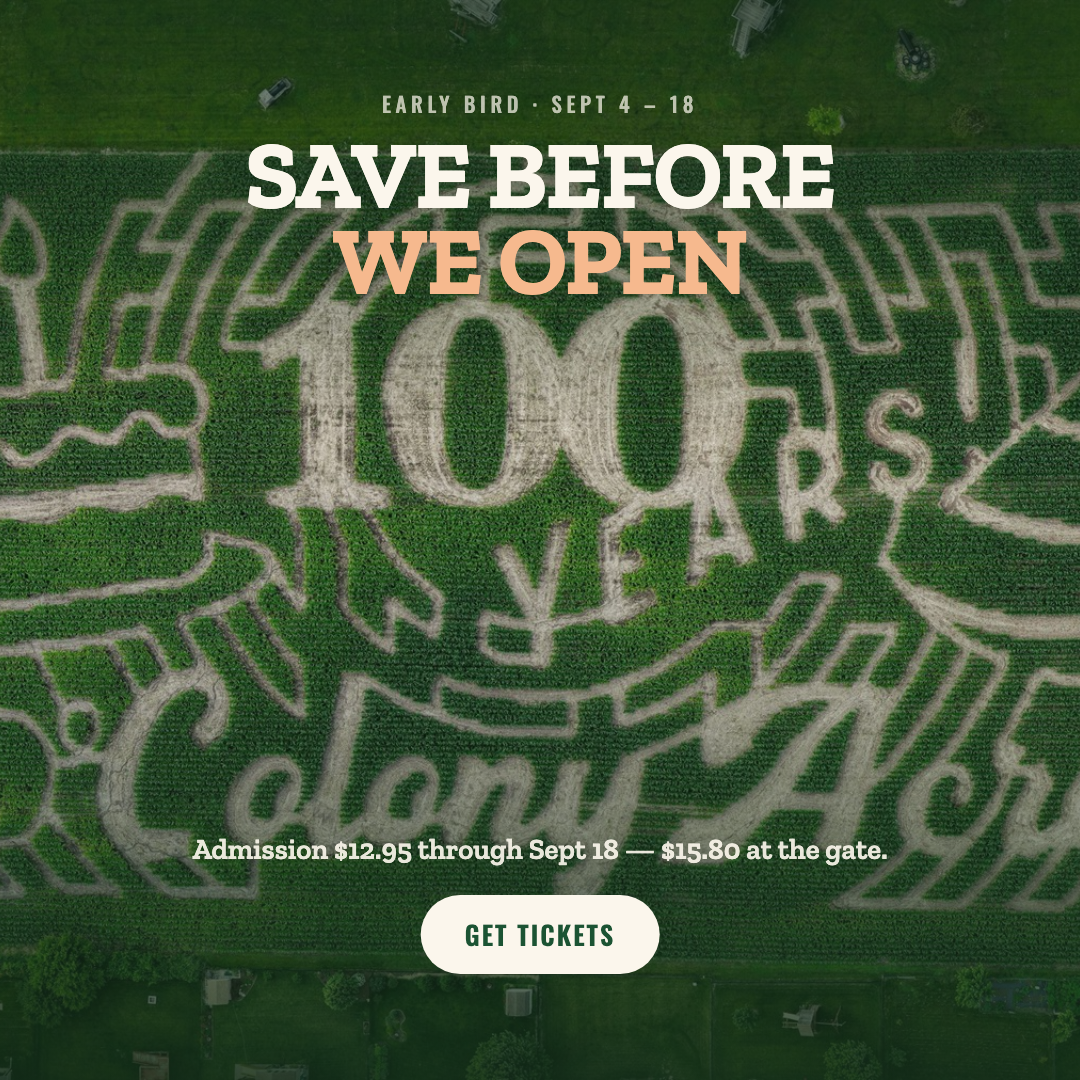
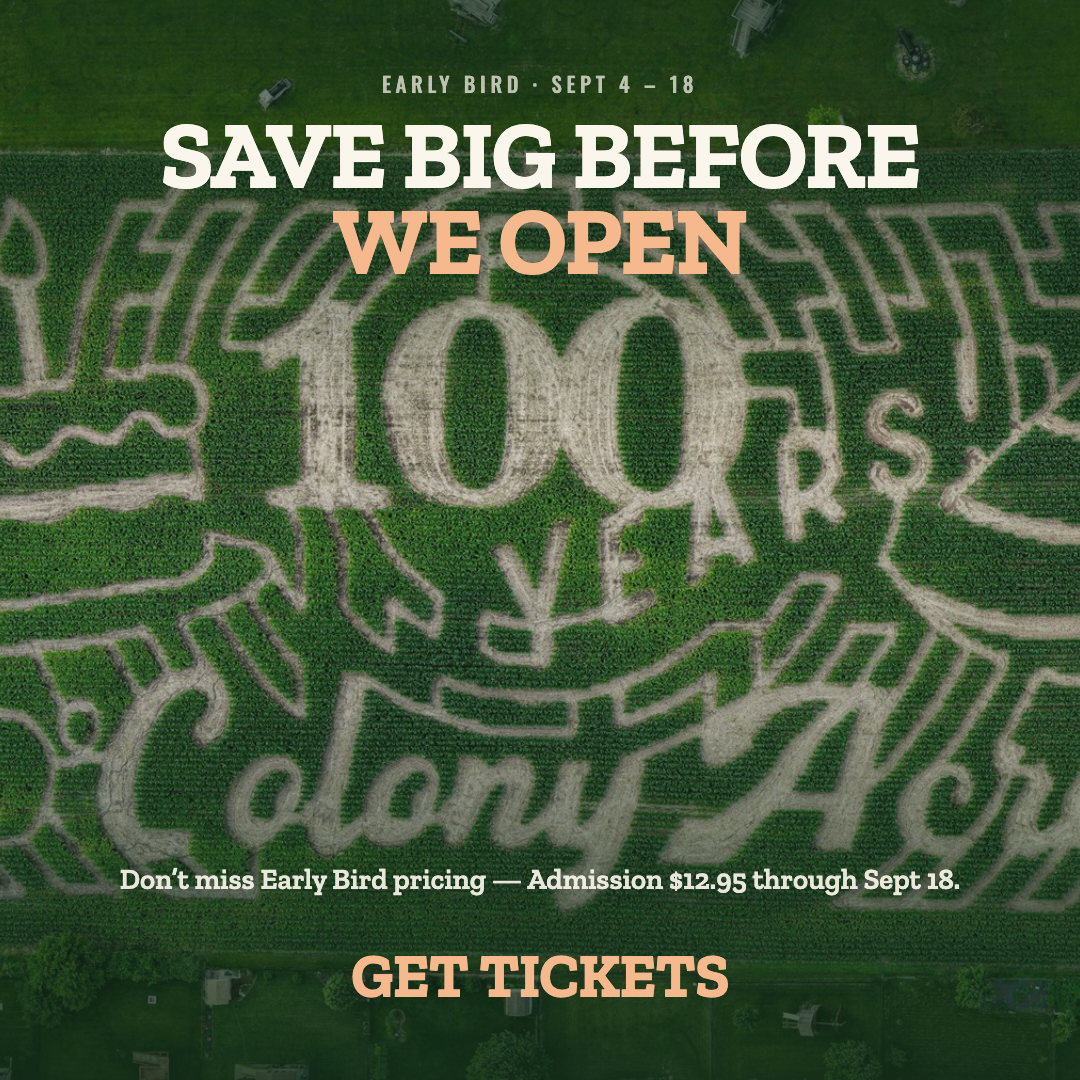
colony-acres: maze offer board - Mat's review edits
Board 01: dropped the gate-price tail, prepended 'Don't miss Early Bird
pricing', headline now 'Save Big Before / We Open'.

Template-level (all five): CTA is set as a smaller sibling of the headline
rather than a pill, and the top/bottom blocks pushed apart so more of the maze
reads. These propagate across the set on purpose - a copy test stops being a
copy test the moment one board's layout drifts from the rest.

Changed region(s): [[0.1528, 0.0611, 0.8556, 0.275], [0.0917, 0.7639, 0.8861, 0.9472]]

diff --git a/clients/colony-acres/design/ad-creatives/early-bird-2026-maze-offer/render/01-save-before-we-open.html b/clients/colony-acres/design/ad-creatives/early-bird-2026-maze-offer/render/01-save-before-we-open.html
@@ -33,24 +33,25 @@ html, body { width: 1080px; height: 1080px; overflow: hidden; }
 }
 .say.light { color: rgba(251,246,236,0.92); }
 
-.pill {
-  position: absolute; background: #1B5333; color: #FBF6EC;
-  padding: 20px 44px; border-radius: 999px;
-  font-family: 'Oswald', sans-serif; font-weight: 600; font-size: 26px;
-  letter-spacing: 0.08em; text-transform: uppercase; white-space: nowrap;
+/* The call to action is set as a smaller sibling of the headline rather than a
+   button — same face, same treatment, peach so it echoes the second title line. */
+.cta {
+  position: absolute; left: 0; right: 0; text-align: center;
+  font-family: 'Zilla Slab', Georgia, serif; font-weight: 700;
+  text-transform: uppercase; letter-spacing: -0.012em; line-height: 0.9;
+  font-size: 62px; color: #F6B98E;
 }
-.pill.cream  { background: #FBF6EC; color: #1B5333; }
 </style></head><body>
 <div class="ad">
   <div class="full"><img src="../../early-bird-2026-concept-b/img/colony-100-years-maze.jpg" style="object-position:50% 46%" alt=""></div>
   <div class="veil" style="background:linear-gradient(180deg,rgba(20,45,26,0.72) 0%,rgba(20,45,26,0.12) 40%,rgba(20,45,26,0.28) 66%,rgba(20,45,26,0.86) 100%)"></div>
-  <div class="eyebrow light" style="position:absolute;left:0;right:0;top:88px;text-align:center">Early Bird · Sept 4 – 18</div>
-  <div class="lock" style="left:0;right:0;top:132px;text-align:center">
-    <span class="a" style="font-size:96px;color:#FBF6EC">Save before</span>
+  <div class="eyebrow light" style="position:absolute;left:0;right:0;top:68px;text-align:center">Early Bird · Sept 4 – 18</div>
+  <div class="lock" style="left:0;right:0;top:112px;text-align:center">
+    <span class="a" style="font-size:96px;color:#FBF6EC">Save big before</span>
     <span class="b" style="font-size:96px;color:#F6B98E">we open</span>
   </div>
-  <div class="say light" style="position:absolute;left:0;right:0;bottom:210px;text-align:center;font-size:29px">
-    Admission $12.95 through Sept 18 — $15.80 at the gate.
+  <div class="say light" style="position:absolute;left:0;right:0;bottom:180px;text-align:center;font-size:29px">
+    Don’t miss Early Bird pricing — Admission $12.95 through Sept 18.
   </div>
-  <div class="pill cream" style="left:50%;transform:translateX(-50%);bottom:106px">Get Tickets</div>
+  <div class="cta" style="bottom:76px">Get Tickets</div>
 </div></body></html>

diff --git a/clients/colony-acres/design/ad-creatives/early-bird-2026-maze-offer/render/02-last-call.html b/clients/colony-acres/design/ad-creatives/early-bird-2026-maze-offer/render/02-last-call.html
@@ -33,24 +33,25 @@ html, body { width: 1080px; height: 1080px; overflow: hidden; }
 }
 .say.light { color: rgba(251,246,236,0.92); }
 
-.pill {
-  position: absolute; background: #1B5333; color: #FBF6EC;
-  padding: 20px 44px; border-radius: 999px;
-  font-family: 'Oswald', sans-serif; font-weight: 600; font-size: 26px;
-  letter-spacing: 0.08em; text-transform: uppercase; white-space: nowrap;
+/* The call to action is set as a smaller sibling of the headline rather than a
+   button — same face, same treatment, peach so it echoes the second title line. */
+.cta {
+  position: absolute; left: 0; right: 0; text-align: center;
+  font-family: 'Zilla Slab', Georgia, serif; font-weight: 700;
+  text-transform: uppercase; letter-spacing: -0.012em; line-height: 0.9;
+  font-size: 62px; color: #F6B98E;
 }
-.pill.cream  { background: #FBF6EC; color: #1B5333; }
 </style></head><body>
 <div class="ad">
   <div class="full"><img src="../../early-bird-2026-concept-b/img/colony-100-years-maze.jpg" style="object-position:50% 46%" alt=""></div>
   <div class="veil" style="background:linear-gradient(180deg,rgba(20,45,26,0.72) 0%,rgba(20,45,26,0.12) 40%,rgba(20,45,26,0.28) 66%,rgba(20,45,26,0.86) 100%)"></div>
-  <div class="eyebrow light" style="position:absolute;left:0;right:0;top:88px;text-align:center">Early Bird ends Sept 18</div>
-  <div class="lock" style="left:0;right:0;top:132px;text-align:center">
+  <div class="eyebrow light" style="position:absolute;left:0;right:0;top:68px;text-align:center">Early Bird ends Sept 18</div>
+  <div class="lock" style="left:0;right:0;top:112px;text-align:center">
     <span class="a" style="font-size:96px;color:#FBF6EC">Last call</span>
     <span class="b" style="font-size:96px;color:#F6B98E">before the gate</span>
   </div>
-  <div class="say light" style="position:absolute;left:0;right:0;bottom:210px;text-align:center;font-size:29px">
+  <div class="say light" style="position:absolute;left:0;right:0;bottom:180px;text-align:center;font-size:29px">
     The final discount before opening day. $12.95, any day you visit.
   </div>
-  <div class="pill cream" style="left:50%;transform:translateX(-50%);bottom:106px">Get Tickets</div>
+  <div class="cta" style="bottom:76px">Get Tickets</div>
 </div></body></html>

diff --git a/clients/colony-acres/design/ad-creatives/early-bird-2026-maze-offer/render/04-one-pass-all-fall.html b/clients/colony-acres/design/ad-creatives/early-bird-2026-maze-offer/render/04-one-pass-all-fall.html
@@ -33,24 +33,25 @@ html, body { width: 1080px; height: 1080px; overflow: hidden; }
 }
 .say.light { color: rgba(251,246,236,0.92); }
 
-.pill {
-  position: absolute; background: #1B5333; color: #FBF6EC;
-  padding: 20px 44px; border-radius: 999px;
-  font-family: 'Oswald', sans-serif; font-weight: 600; font-size: 26px;
-  letter-spacing: 0.08em; text-transform: uppercase; white-space: nowrap;
+/* The call to action is set as a smaller sibling of the headline rather than a
+   button — same face, same treatment, peach so it echoes the second title line. */
+.cta {
+  position: absolute; left: 0; right: 0; text-align: center;
+  font-family: 'Zilla Slab', Georgia, serif; font-weight: 700;
+  text-transform: uppercase; letter-spacing: -0.012em; line-height: 0.9;
+  font-size: 62px; color: #F6B98E;
 }
-.pill.cream  { background: #FBF6EC; color: #1B5333; }
 </style></head><body>
 <div class="ad">
   <div class="full"><img src="../../early-bird-2026-concept-b/img/colony-100-years-maze.jpg" style="object-position:50% 46%" alt=""></div>
   <div class="veil" style="background:linear-gradient(180deg,rgba(20,45,26,0.72) 0%,rgba(20,45,26,0.12) 40%,rgba(20,45,26,0.28) 66%,rgba(20,45,26,0.86) 100%)"></div>
-  <div class="eyebrow light" style="position:absolute;left:0;right:0;top:88px;text-align:center">Early Bird · season pass</div>
-  <div class="lock" style="left:0;right:0;top:132px;text-align:center">
+  <div class="eyebrow light" style="position:absolute;left:0;right:0;top:68px;text-align:center">Early Bird · season pass</div>
+  <div class="lock" style="left:0;right:0;top:112px;text-align:center">
     <span class="a" style="font-size:96px;color:#FBF6EC">One pass,</span>
     <span class="b" style="font-size:96px;color:#F6B98E">all fall</span>
   </div>
-  <div class="say light" style="position:absolute;left:0;right:0;bottom:210px;text-align:center;font-size:29px">
+  <div class="say light" style="position:absolute;left:0;right:0;bottom:180px;text-align:center;font-size:29px">
     $35.95 through Sept 18. Unlimited visits, Sept 19 – Oct 31.
   </div>
-  <div class="pill cream" style="left:50%;transform:translateX(-50%);bottom:106px">Get Tickets</div>
+  <div class="cta" style="bottom:76px">Get Tickets</div>
 </div></body></html>

diff --git a/clients/colony-acres/design/ad-creatives/early-bird-2026-maze-offer/render/05-buy-early-pay-less.html b/clients/colony-acres/design/ad-creatives/early-bird-2026-maze-offer/render/05-buy-early-pay-less.html
@@ -33,24 +33,25 @@ html, body { width: 1080px; height: 1080px; overflow: hidden; }
 }
 .say.light { color: rgba(251,246,236,0.92); }
 
-.pill {
-  position: absolute; background: #1B5333; color: #FBF6EC;
-  padding: 20px 44px; border-radius: 999px;
-  font-family: 'Oswald', sans-serif; font-weight: 600; font-size: 26px;
-  letter-spacing: 0.08em; text-transform: uppercase; white-space: nowrap;
+/* The call to action is set as a smaller sibling of the headline rather than a
+   button — same face, same treatment, peach so it echoes the second title line. */
+.cta {
+  position: absolute; left: 0; right: 0; text-align: center;
+  font-family: 'Zilla Slab', Georgia, serif; font-weight: 700;
+  text-transform: uppercase; letter-spacing: -0.012em; line-height: 0.9;
+  font-size: 62px; color: #F6B98E;
 }
-.pill.cream  { background: #FBF6EC; color: #1B5333; }
 </style></head><body>
 <div class="ad">
   <div class="full"><img src="../../early-bird-2026-concept-b/img/colony-100-years-maze.jpg" style="object-position:50% 46%" alt=""></div>
   <div class="veil" style="background:linear-gradient(180deg,rgba(20,45,26,0.72) 0%,rgba(20,45,26,0.12) 40%,rgba(20,45,26,0.28) 66%,rgba(20,45,26,0.86) 100%)"></div>
-  <div class="eyebrow light" style="position:absolute;left:0;right:0;top:88px;text-align:center">Early Bird · Sept 4 – 18</div>
-  <div class="lock" style="left:0;right:0;top:132px;text-align:center">
+  <div class="eyebrow light" style="position:absolute;left:0;right:0;top:68px;text-align:center">Early Bird · Sept 4 – 18</div>
+  <div class="lock" style="left:0;right:0;top:112px;text-align:center">
     <span class="a" style="font-size:96px;color:#FBF6EC">Buy early.</span>
     <span class="b" style="font-size:96px;color:#F6B98E">Pay less.</span>
   </div>
-  <div class="say light" style="position:absolute;left:0;right:0;bottom:210px;text-align:center;font-size:29px">
+  <div class="say light" style="position:absolute;left:0;right:0;bottom:180px;text-align:center;font-size:29px">
     $12.95 now. $15.80 once the gates open September 19.
   </div>
-  <div class="pill cream" style="left:50%;transform:translateX(-50%);bottom:106px">Get Tickets</div>
+  <div class="cta" style="bottom:76px">Get Tickets</div>
 </div></body></html>

diff --git a/clients/colony-acres/design/ad-creatives/early-bird-2026-maze-offer/render/03-bundle-is-back.html b/clients/colony-acres/design/ad-creatives/early-bird-2026-maze-offer/render/03-bundle-is-back.html
@@ -33,24 +33,25 @@ html, body { width: 1080px; height: 1080px; overflow: hidden; }
 }
 .say.light { color: rgba(251,246,236,0.92); }
 
-.pill {
-  position: absolute; background: #1B5333; color: #FBF6EC;
-  padding: 20px 44px; border-radius: 999px;
-  font-family: 'Oswald', sans-serif; font-weight: 600; font-size: 26px;
-  letter-spacing: 0.08em; text-transform: uppercase; white-space: nowrap;
+/* The call to action is set as a smaller sibling of the headline rather than a
+   button — same face, same treatment, peach so it echoes the second title line. */
+.cta {
+  position: absolute; left: 0; right: 0; text-align: center;
+  font-family: 'Zilla Slab', Georgia, serif; font-weight: 700;
+  text-transform: uppercase; letter-spacing: -0.012em; line-height: 0.9;
+  font-size: 62px; color: #F6B98E;
 }
-.pill.cream  { background: #FBF6EC; color: #1B5333; }
 </style></head><body>
 <div class="ad">
   <div class="full"><img src="../../early-bird-2026-concept-b/img/colony-100-years-maze.jpg" style="object-position:50% 46%" alt=""></div>
   <div class="veil" style="background:linear-gradient(180deg,rgba(20,45,26,0.72) 0%,rgba(20,45,26,0.12) 40%,rgba(20,45,26,0.28) 66%,rgba(20,45,26,0.86) 100%)"></div>
-  <div class="eyebrow light" style="position:absolute;left:0;right:0;top:88px;text-align:center">Labor Day · limited run</div>
-  <div class="lock" style="left:0;right:0;top:132px;text-align:center">
+  <div class="eyebrow light" style="position:absolute;left:0;right:0;top:68px;text-align:center">Labor Day · limited run</div>
+  <div class="lock" style="left:0;right:0;top:112px;text-align:center">
     <span class="a" style="font-size:96px;color:#FBF6EC">The bundle</span>
     <span class="b" style="font-size:96px;color:#F6B98E">is back</span>
   </div>
-  <div class="say light" style="position:absolute;left:0;right:0;bottom:210px;text-align:center;font-size:29px">
+  <div class="say light" style="position:absolute;left:0;right:0;bottom:180px;text-align:center;font-size:29px">
     Admission, a pumpkin, a slushie and donut holes — $17.95.
   </div>
-  <div class="pill cream" style="left:50%;transform:translateX(-50%);bottom:106px">Get Tickets</div>
+  <div class="cta" style="bottom:76px">Get Tickets</div>
 </div></body></html>

diff --git a/clients/colony-acres/design/ad-creatives/early-bird-2026-maze-offer/src/build.py b/clients/colony-acres/design/ad-creatives/early-bird-2026-maze-offer/src/build.py
@@ -4,12 +4,18 @@ Colony Acres · Early Bird 2026 · Maze offer board — 5 copy iterations
 
 Mat picked Concept B board 05 ("One Hundred Falls") and asked for the layout
 held exactly — big type up top, the middle of the frame left open so the maze
-reads, one line and a pill at the foot — with the copy rewritten from a brand
+reads, one line and a call to action at the foot — with the copy rewritten from a brand
 beat into an OFFER, in Early Bird language that pushes the sale.
 
 So these five differ in copy only. Same photograph, same crop, same veil, same
 type sizes, same centred stack. That makes them a clean copy test: whatever wins
 is the message winning, not the picture.
+
+Mat's later edits, applied here: the CTA is set as a smaller sibling of the
+headline rather than a pill, and the top and bottom blocks are pushed further
+apart so more of the maze shows through. Those are template-level, so they land
+on all five — a copy test stops being a copy test the moment one board's layout
+drifts from the rest.
 
 The five angles, all drawn from the strategy call's Early Bird logic — the sale
 sits between the flash sale closing and the gates opening, and it is explicitly
@@ -73,13 +79,14 @@ html, body { width: 1080px; height: 1080px; overflow: hidden; }
 }
 .say.light { color: rgba(251,246,236,0.92); }
 
-.pill {
-  position: absolute; background: #1B5333; color: #FBF6EC;
-  padding: 20px 44px; border-radius: 999px;
-  font-family: 'Oswald', sans-serif; font-weight: 600; font-size: 26px;
-  letter-spacing: 0.08em; text-transform: uppercase; white-space: nowrap;
+/* The call to action is set as a smaller sibling of the headline rather than a
+   button — same face, same treatment, peach so it echoes the second title line. */
+.cta {
+  position: absolute; left: 0; right: 0; text-align: center;
+  font-family: 'Zilla Slab', Georgia, serif; font-weight: 700;
+  text-transform: uppercase; letter-spacing: -0.012em; line-height: 0.9;
+  font-size: 62px; color: #F6B98E;
 }
-.pill.cream  { background: #FBF6EC; color: #1B5333; }
 """
 
 VEIL = ("linear-gradient(180deg,rgba(20,45,26,0.72) 0%,rgba(20,45,26,0.12) 40%,"
@@ -90,8 +97,8 @@ VEIL = ("linear-gradient(180deg,rgba(20,45,26,0.72) 0%,rgba(20,45,26,0.12) 40%,"
 # never need a size change — the whole point is that the layout stays put.
 ITERATIONS = [
     ("01-save-before-we-open", "Early Bird · Sept 4 – 18",
-     "Save before", "we open",
-     "Admission $12.95 through Sept 18 — $15.80 at the gate."),
+     "Save big before", "we open",
+     "Don’t miss Early Bird pricing — Admission $12.95 through Sept 18."),
 
     ("02-last-call", "Early Bird ends Sept 18",
      "Last call", "before the gate",
@@ -118,15 +125,15 @@ for slug, eyebrow, line_a, line_b, say in ITERATIONS:
 <div class="ad">
   <div class="full"><img src="{IMG}/colony-100-years-maze.jpg" style="object-position:50% 46%" alt=""></div>
   <div class="veil" style="background:{VEIL}"></div>
-  <div class="eyebrow light" style="position:absolute;left:0;right:0;top:88px;text-align:center">{eyebrow}</div>
-  <div class="lock" style="left:0;right:0;top:132px;text-align:center">
+  <div class="eyebrow light" style="position:absolute;left:0;right:0;top:68px;text-align:center">{eyebrow}</div>
+  <div class="lock" style="left:0;right:0;top:112px;text-align:center">
     <span class="a" style="font-size:96px;color:#FBF6EC">{line_a}</span>
     <span class="b" style="font-size:96px;color:#F6B98E">{line_b}</span>
   </div>
-  <div class="say light" style="position:absolute;left:0;right:0;bottom:210px;text-align:center;font-size:29px">
+  <div class="say light" style="position:absolute;left:0;right:0;bottom:180px;text-align:center;font-size:29px">
     {say}
   </div>
-  <div class="pill cream" style="left:50%;transform:translateX(-50%);bottom:106px">Get Tickets</div>
+  <div class="cta" style="bottom:76px">Get Tickets</div>
 </div></body></html>""")
 
 print(f"built {len(ITERATIONS)} iterations → {OUT}")

diff --git a/clients/colony-acres/design/ad-creatives/early-bird-2026-maze-offer/README.md b/clients/colony-acres/design/ad-creatives/early-bird-2026-maze-offer/README.md
@@ -15,11 +15,27 @@ So these five differ in **copy only**. Same photograph, same crop, same veil, sa
 sizes, same centred stack, same CTA. That makes it a clean copy test: whatever wins is the
 message winning, not the picture.
 
+## Mat's edits (2026-08-28)
+
+Applied after review of board 01:
+
+- Board 01's foot line lost "— $15.80 at the gate" and gained a
+  "Don't miss Early Bird pricing —" opener.
+- Board 01's headline became **Save Big Before / We Open**.
+- **The CTA is no longer a pill.** It is set as a smaller sibling of the headline —
+  same face, same treatment, peach so it echoes the second title line.
+- The top block moved up and the bottom block moved down, opening the middle of the
+  frame so more of the maze reads.
+
+The last two are template-level and therefore land on **all five**. A copy test stops
+being a copy test the moment one board's layout drifts from the rest — so the layout
+edits propagate even though only board 01's words changed.
+
 ## The five angles
 
 | # | File | Headline | Angle |
 |---|---|---|---|
-| 01 | `01-save-before-we-open` | Save before / we open | The plain saving against the gate |
+| 01 | `01-save-before-we-open` | Save big before / we open | The plain saving, with the deadline named |
 | 02 | `02-last-call` | Last call / before the gate | Last discount before opening day |
 | 03 | `03-bundle-is-back` | The bundle / is back | The Launch Day inclusions, reopened |
 | 04 | `04-one-pass-all-fall` | One pass, / all fall | The season-pass sustain play |
